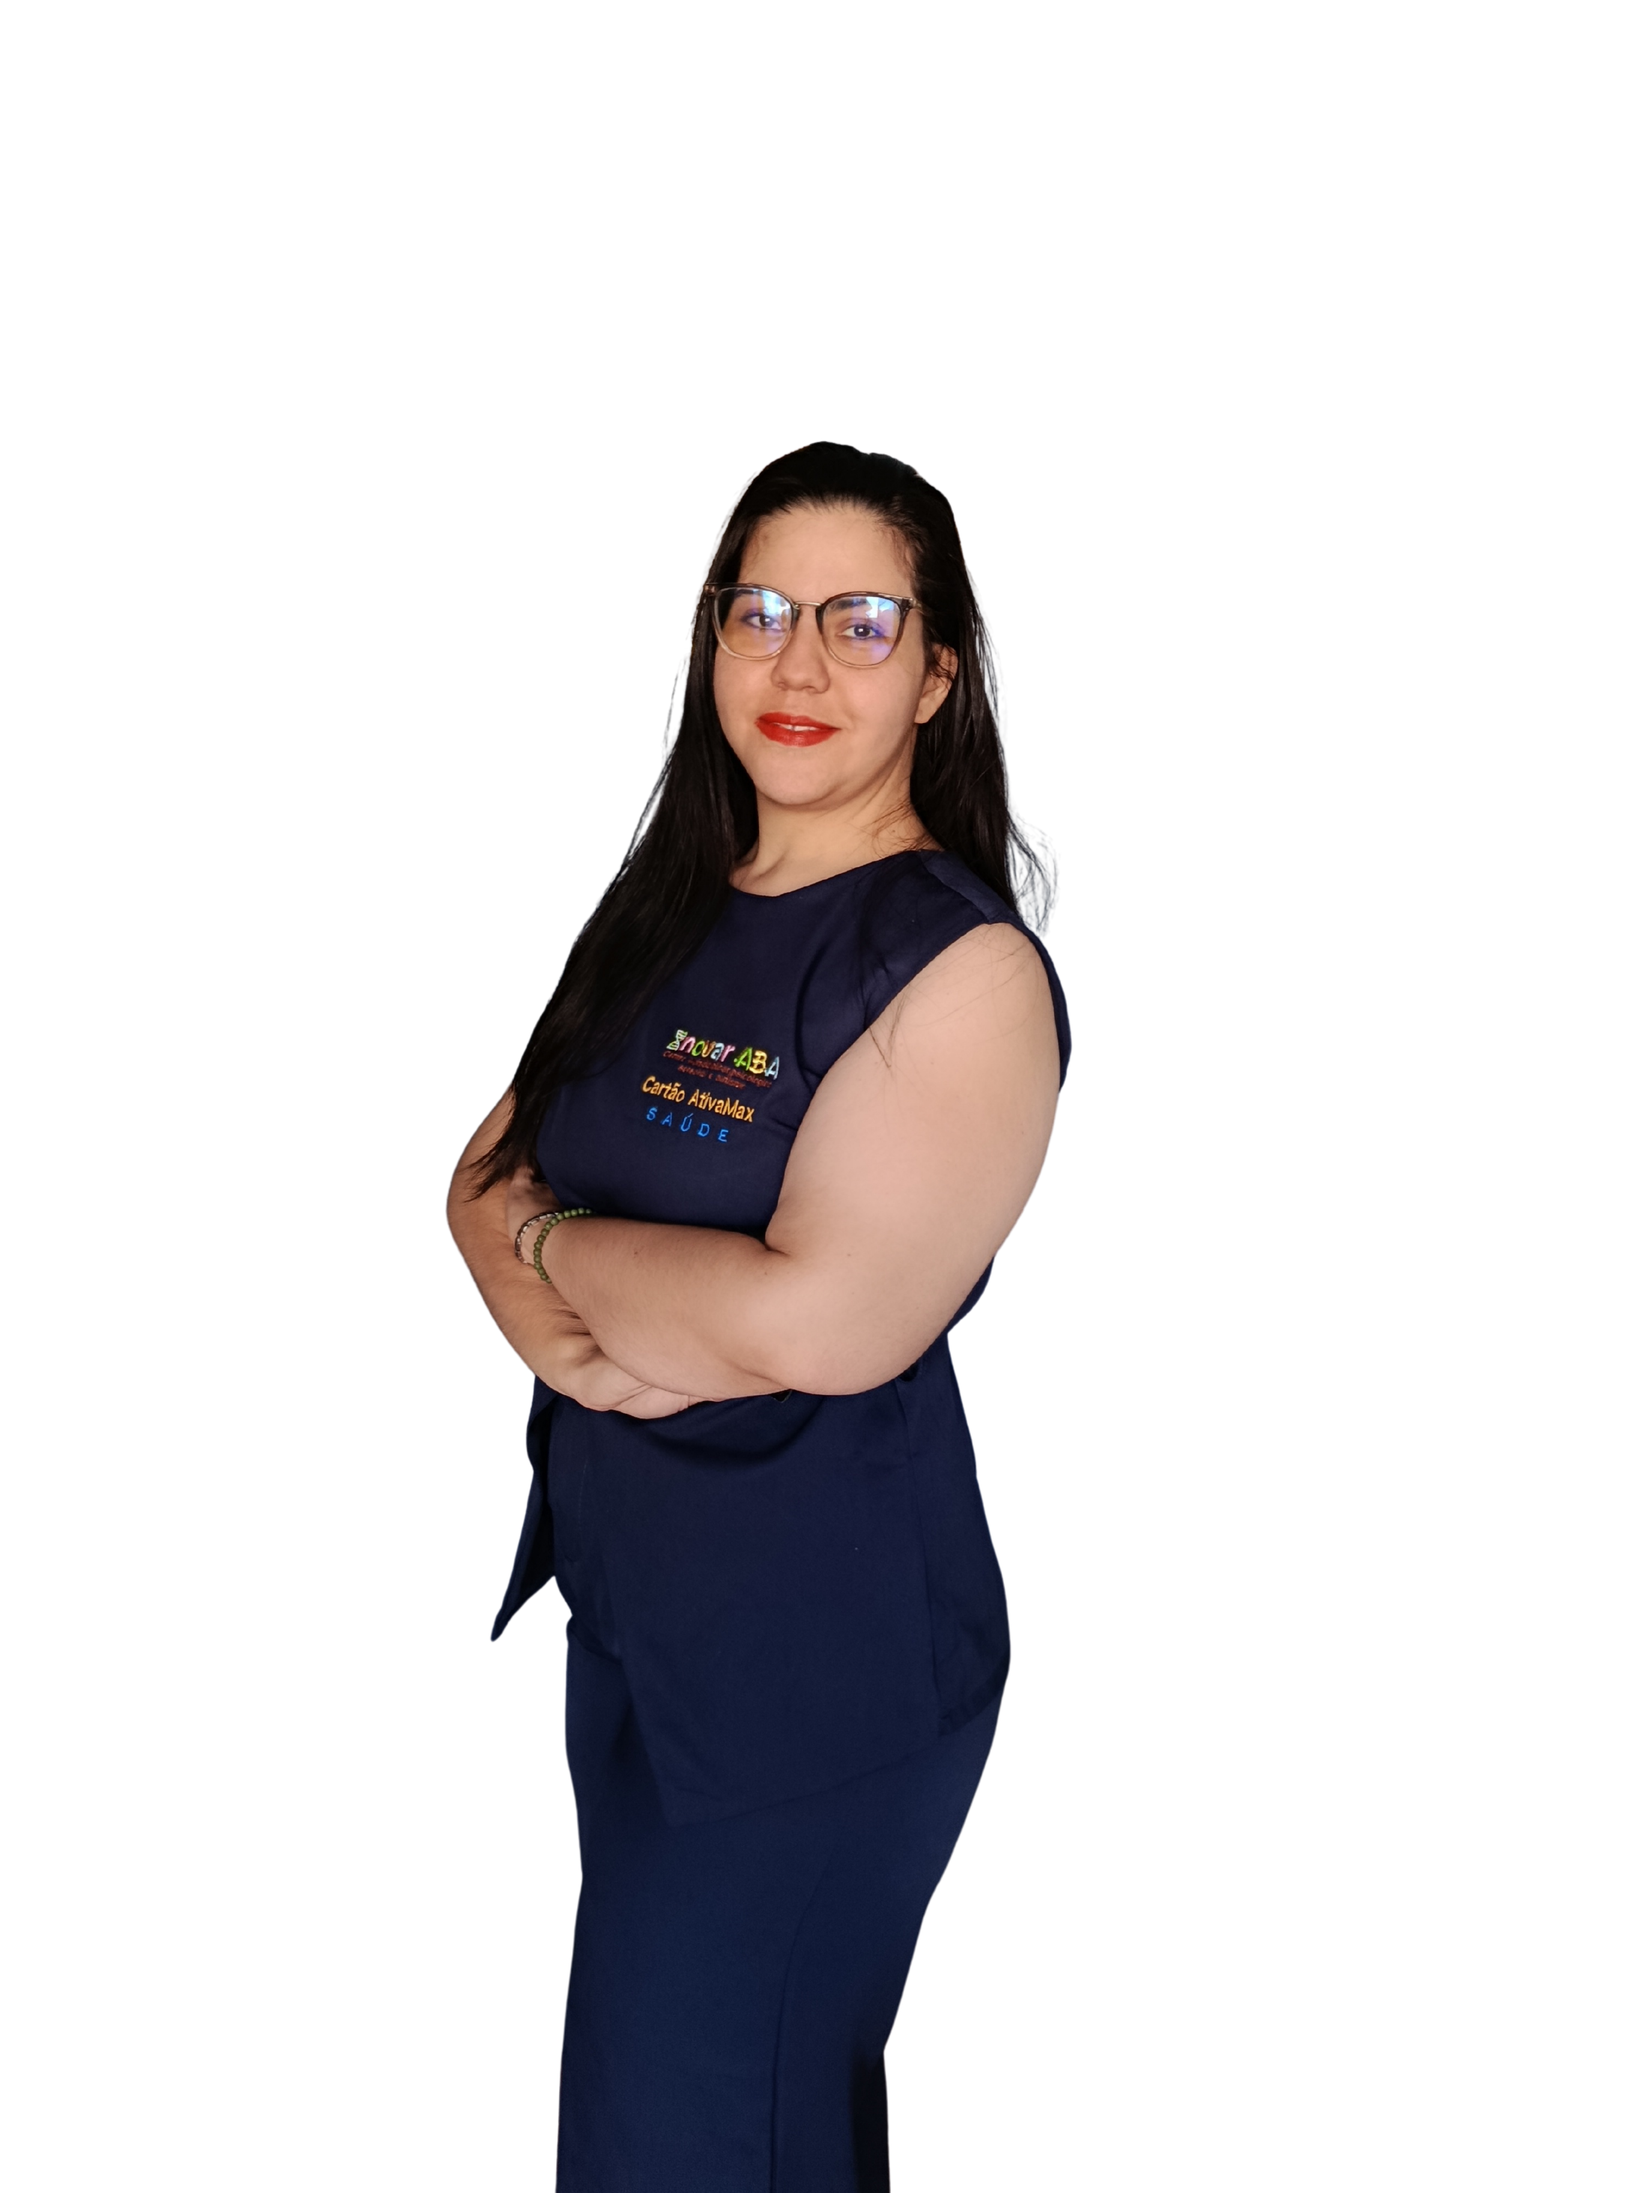
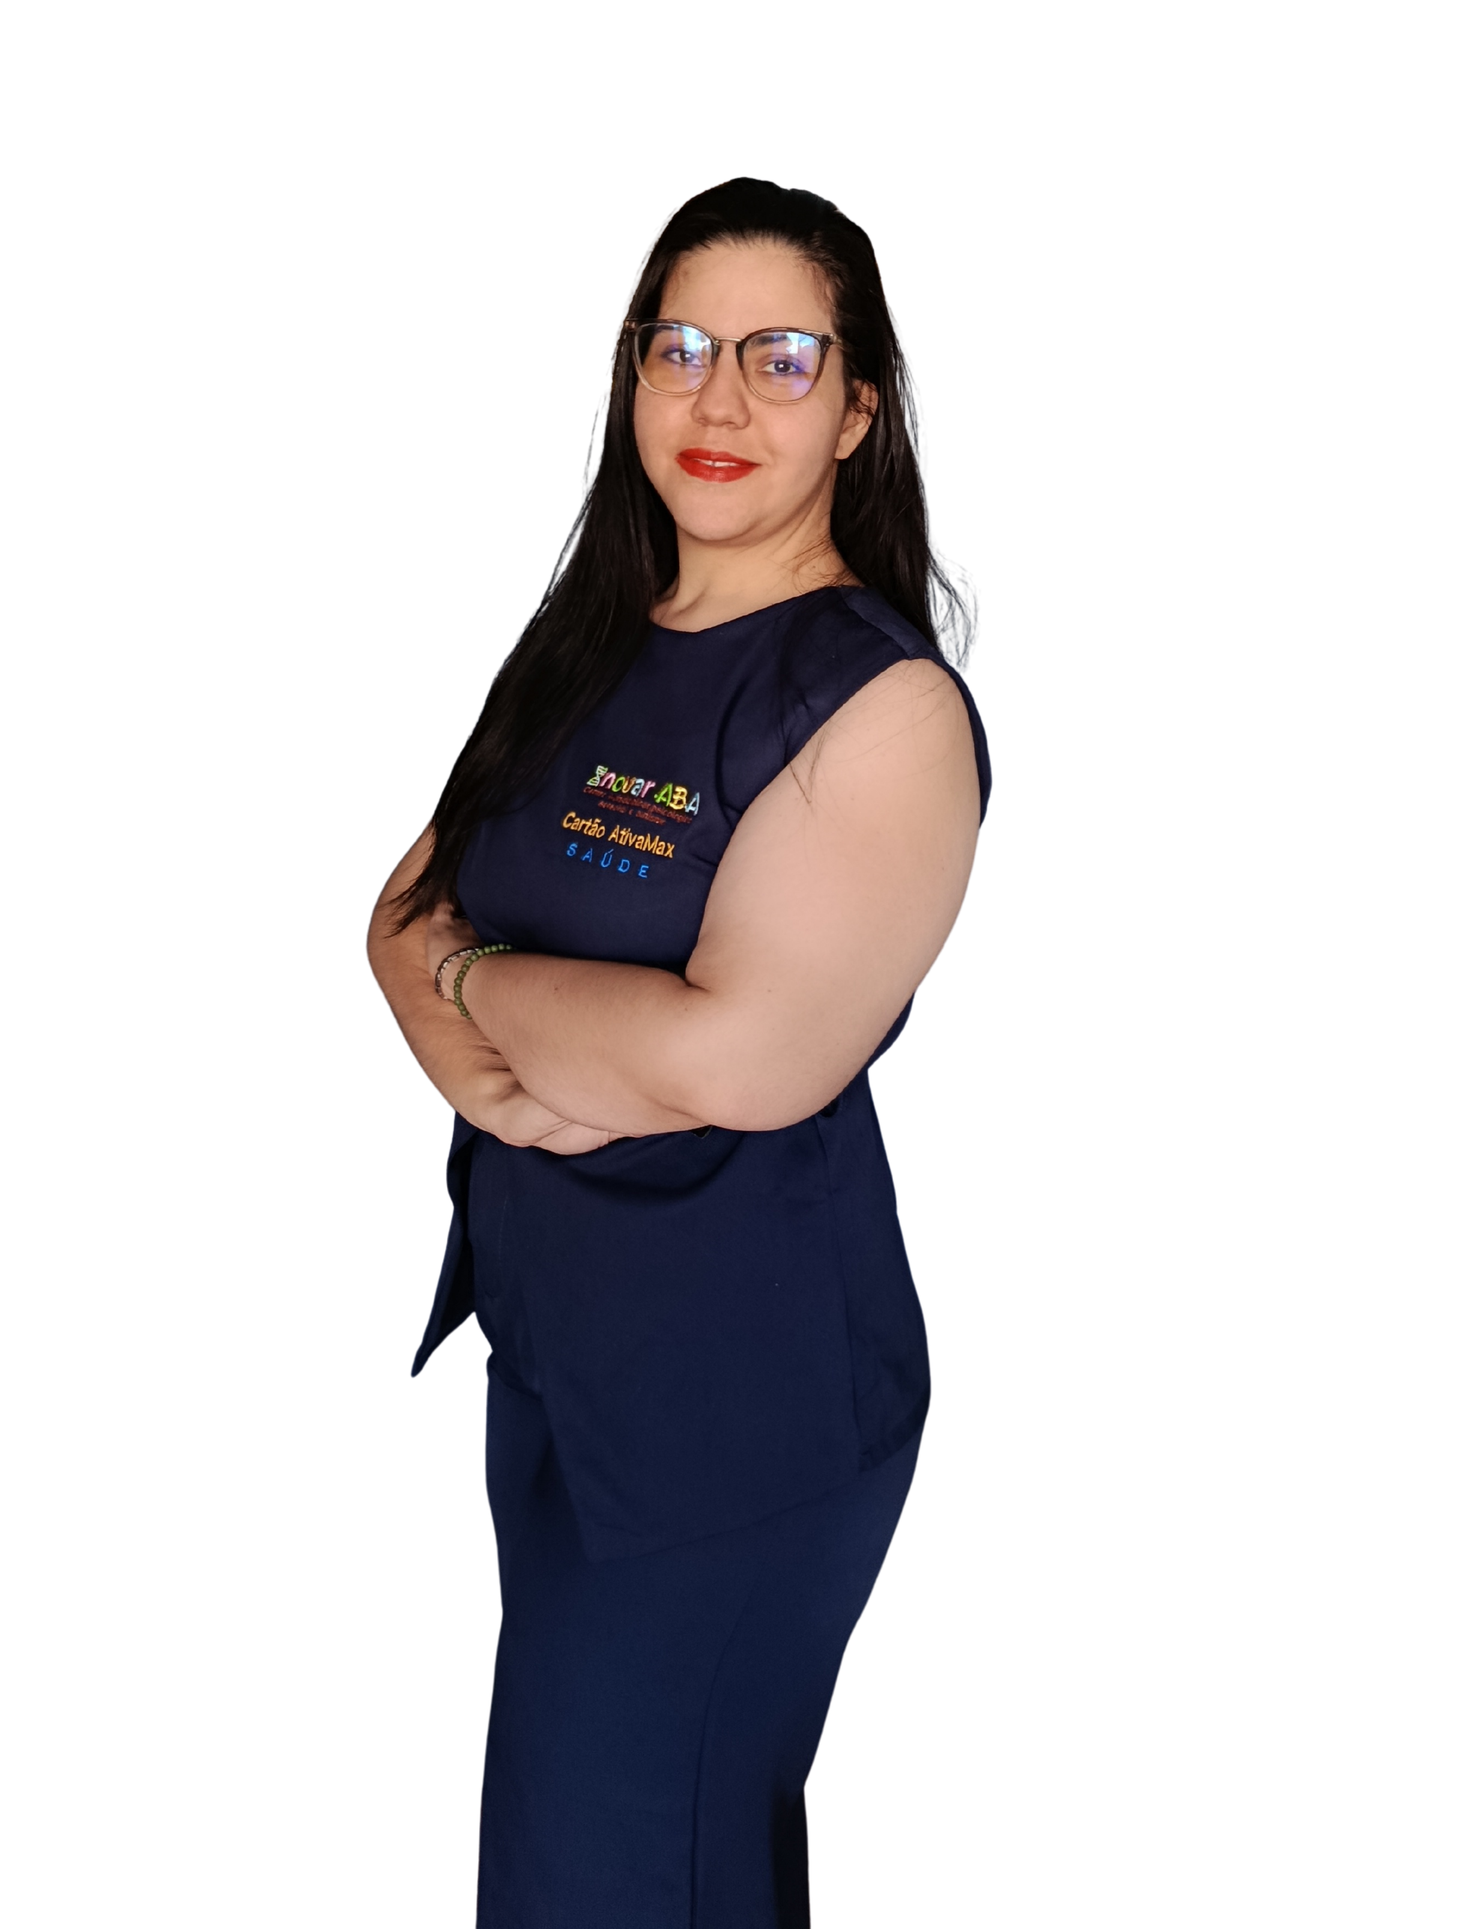
feat: update team member details and images in SectionTeam component

Changed region(s): [[0.2468, 0.0934, 0.6787, 1.0], [0.4936, 0.9031, 0.5553, 1.0], [0.5553, 0.8409, 0.5862, 0.9031]]

diff --git a/src/components/sections/SectionTeam.tsx b/src/components/sections/SectionTeam.tsx
@@ -11,13 +11,13 @@ export default function SectionTeam() {
     {
       name: "Animeres Duarte",
       specialty: "Pedagoga Clínica - ABA",
-      image: "/animeres.png?height=300&width=300",
+      image: "/modelo.png?height=300&width=300",
       bgStyle: "bg-gradient-to-br from-rose-50 via-pink-25 to-purple-50",
     },
     {
-      name: "Dra. Ana Costa",
-      specialty: "Psicóloga Infantil",
-      image: "/modelo.png?height=300&width=300",
+      name: "Ana Paula Silva",
+      specialty: "Pedagoga e Coordenadora Clínica - ABA",
+      image: "/anapaula.png?height=300&width=300",
       bgStyle: "bg-gradient-to-br from-amber-50 via-yellow-25 to-orange-50",
     },
     {
